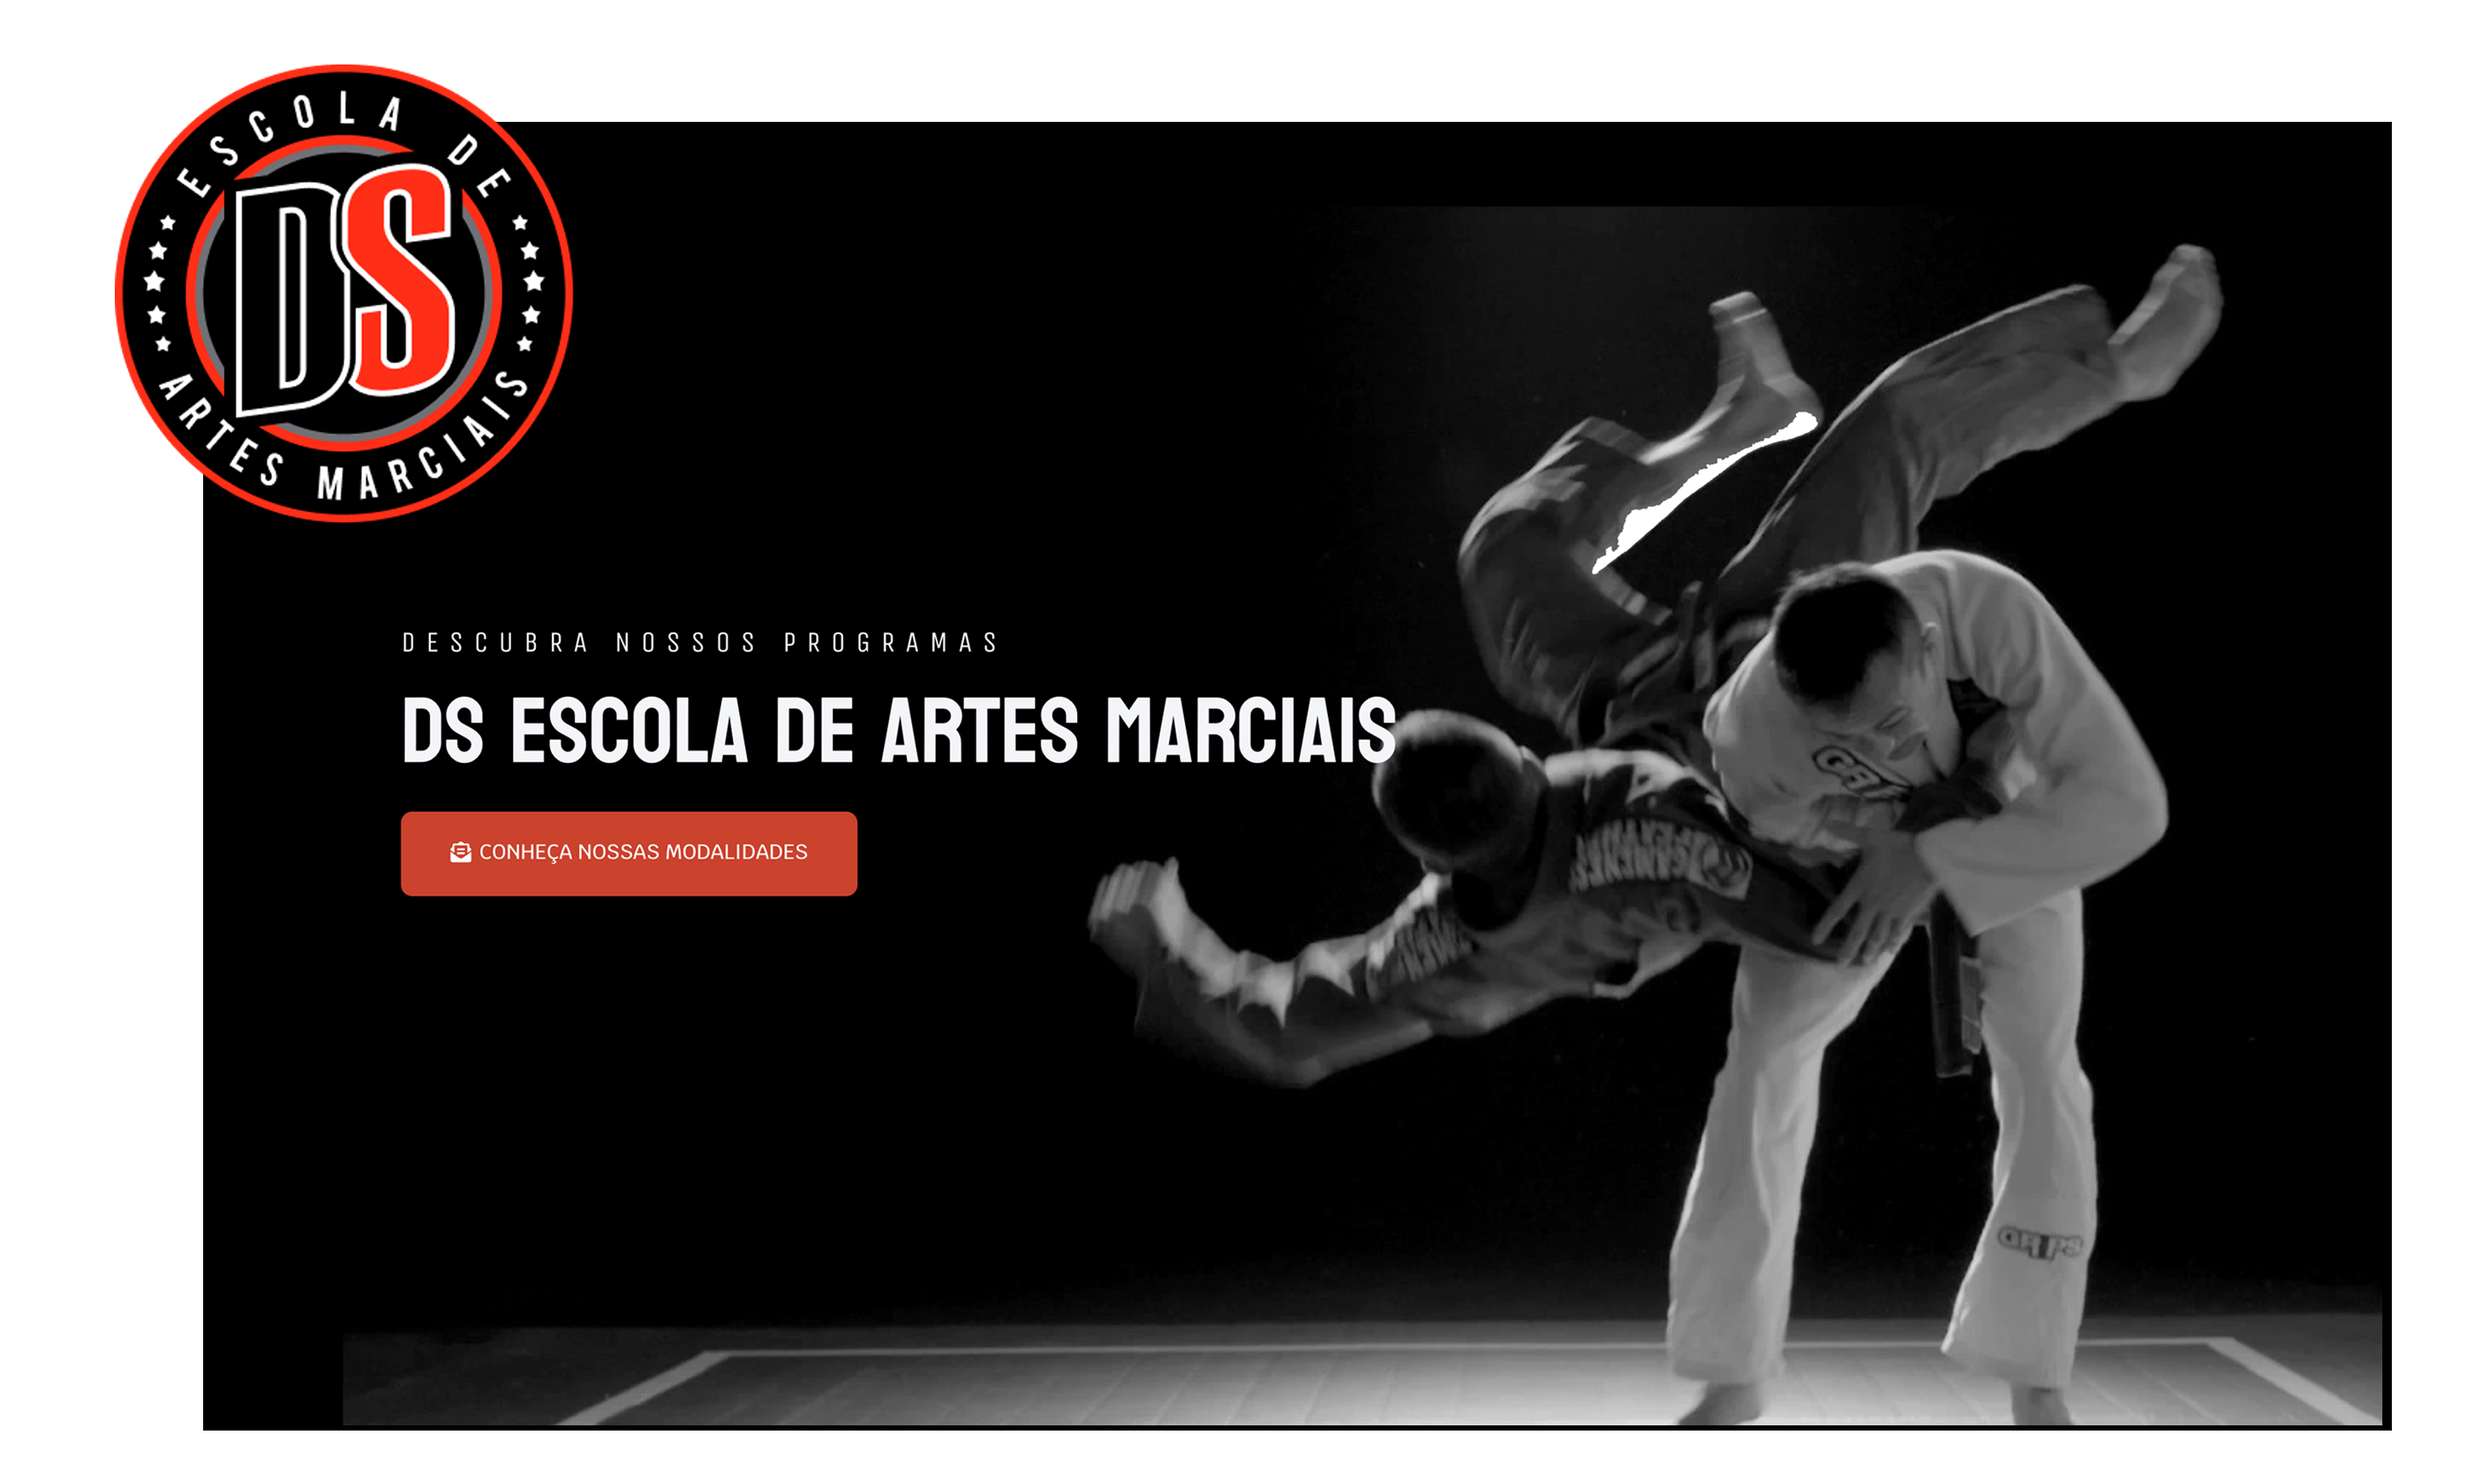
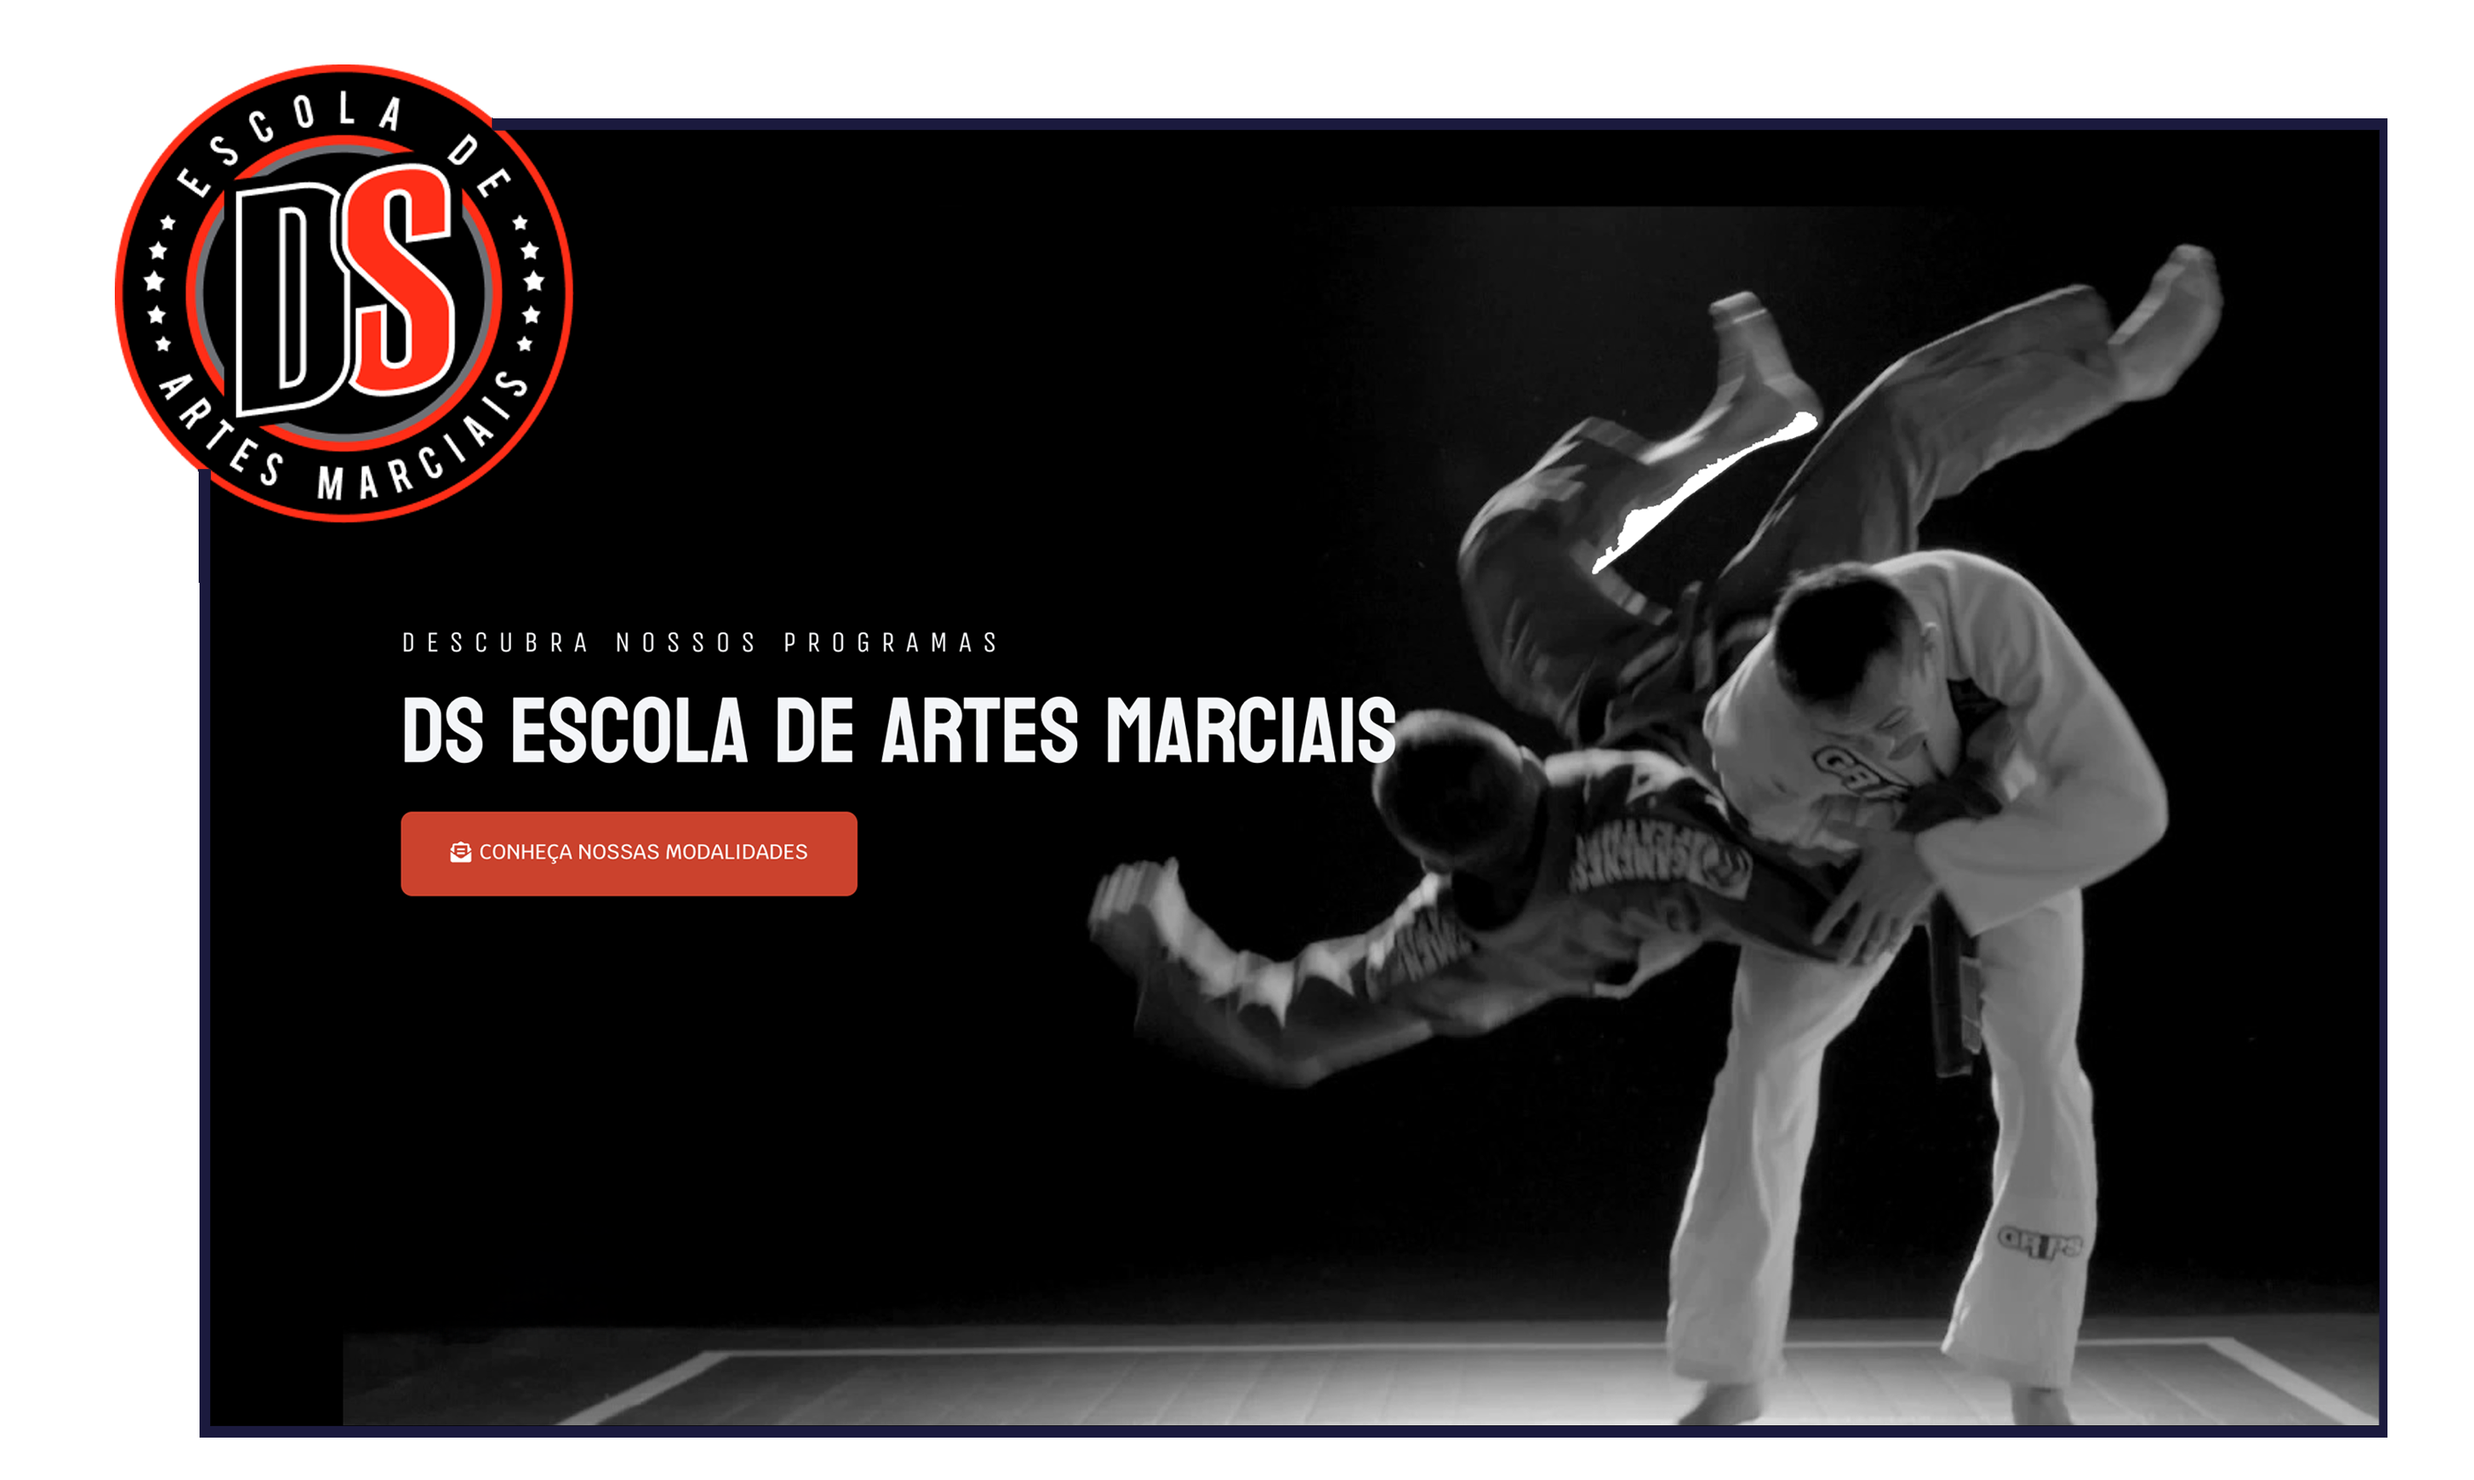
updated
updated stuff

Changed region(s): [[0.0621, 0.3103, 0.9625, 0.9928], [0.9625, 0.0931, 0.9936, 0.9618], [0.1863, 0.0621, 0.9625, 0.0931]]

diff --git a/index.html b/index.html
@@ -192,7 +192,7 @@
             <p>
               Projeto criado com o Figma. Com um design simples e intuitivo para um site com fins educacionais, e a prototipagem retrabalhada com foco na divulgação.
             </p>
-            <a href="https://www.figma.com/proto/9S9LzYOuN3DYnKcxdoIYhw/Untitled?node-id=1-2&node-type=frame&t=LQYxbiCheclAG8PW-8&scaling=scale-down&content-scaling=fixed&page-id=0%3A1&hide-ui=1" class="project-link" target="_blank"
+            <a href="https://www.figma.com/proto/VLQkcksZLe8yFkHCOWMpbj/Untitled?node-id=3-2&node-type=canvas&t=VZl3aNPP01HkEztf-8&scaling=scale-down&content-scaling=fixed&page-id=0%3A1&hide-ui=1" class="project-link" target="_blank"
               ><i class="fa fa-search icon-color" aria-hidden="true"></i>Ver
               Protótipo</a
             >

diff --git a/main.css b/main.css
@@ -14,7 +14,7 @@
   --font-size-responsive-h3: 2rem;
 
   --color-light-gray: #e8ecef;
-  --color-dark-navy: #0f101f;
+  --color-dark-navy: #171728;
   --color-light-blue: #00054d;
   --color-darker-blue: #005b96;
   --color-vibrant-coral: #ff5c5c;
@@ -320,6 +320,7 @@ nav {
   min-height: 100vh;
   max-width: 70rem;
   margin: auto;
+  padding-top: 4em;
 }
 
 .about .container {
@@ -340,6 +341,7 @@ nav {
   flex-grow: 1;
   flex-shrink: 1;
   flex-basis: 0;
+  margin-top: 1em;
 }
 
 .about-text-box h2 {
@@ -513,7 +515,7 @@ hr {
   margin: 2rem 0;
   font-size: 1.2rem;
   color: var(--color-light-gray);
-  font-family: var(--font-sans);
+  font-family: var(--font-mono);
 }
 
 .project-link:hover {
